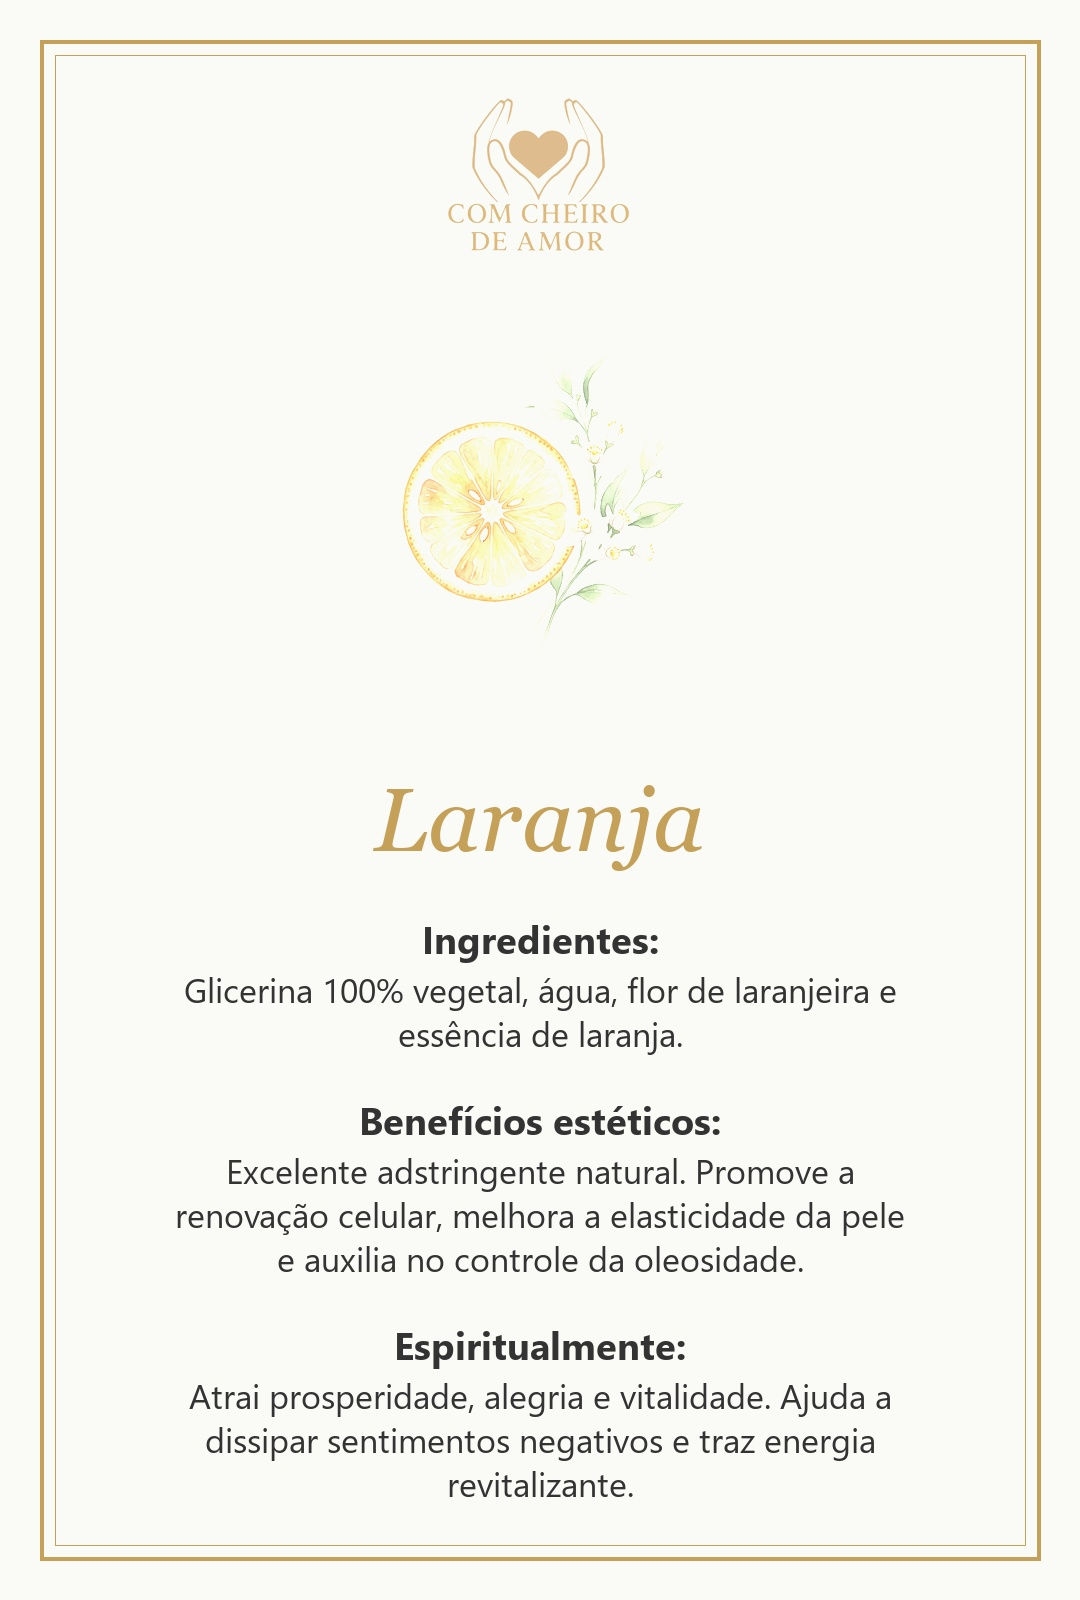
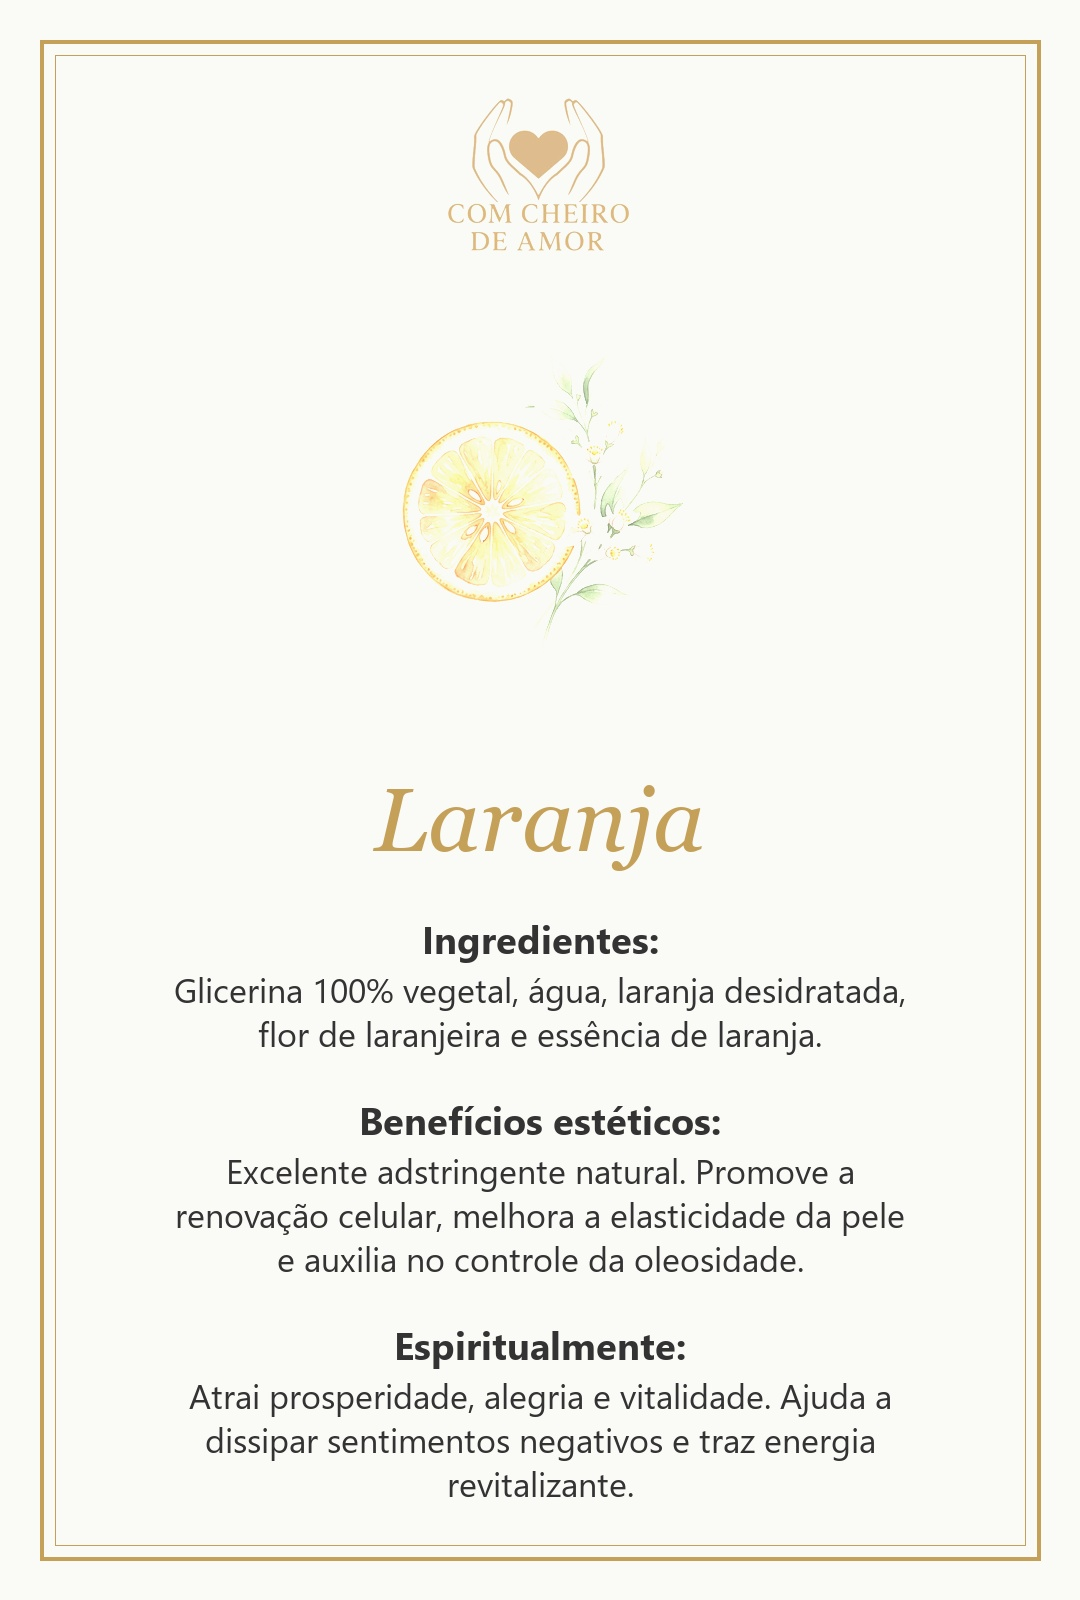
fix(soap): add laranja desidratada to ingredients for Laranja soap

Changed region(s): [[0.1528, 0.5938, 0.825, 0.6562]]

diff --git a/Proyecto 15 - Etiquetas de Jabones/generate_final.py b/Proyecto 15 - Etiquetas de Jabones/generate_final.py
@@ -18,7 +18,7 @@ data = [
     {"title": "Camomila", "drawing": "drawing_camomila*.png", "ingredientes": "Água, glicerina 100% vegetal, camomila e essência 100% vegetal de camomila e flor de laranjeira.", "esteticos": "Acalma a pele irritada, ajuda em problemas de eczema ou acne. Renova o brilho da pele.", "espiritual": "Ajuda a ficar mais tranquilo e equilibrado. Ajuda nas tomadas de decisões e a restaurar forças."},
     {"title": "Lavanda", "drawing": "drawing_lavanda*.png", "ingredientes": "Glicerina 100% vegetal, água, essência natural e lavanda.", "esteticos": "Anti-inflamatório, reduz acne, rosácea e eczemas. Ajuda no tratamento de peles oleosas.", "espiritual": "Calmante, ajuda na ansiedade e stress. Ajuda-nos a conectar com a nossa intuição e sabedoria."},
     {"title": "Aloe Vera", "drawing": "drawing_aloe_vera*.png", "ingredientes": "Glicerina 100% vegetal, àgua, extrato de aloe vera e essência de aloe vera.", "esteticos": "Ajuda na hidratação da pele e rugas. Suaviza a pele.", "espiritual": "Simboliza proteção, esperança, longevidade e sorte."},
-    {"title": "Laranja", "drawing": "drawing_naranja*.png", "ingredientes": "Glicerina 100% vegetal, água, flor de laranjeira e essência de laranja.", "esteticos": "Excelente adstringente natural. Promove a renovação celular, melhora a elasticidade da pele e auxilia no controle da oleosidade.", "espiritual": "Atrai prosperidade, alegria e vitalidade. Ajuda a dissipar sentimentos negativos e traz energia revitalizante."},
+    {"title": "Laranja", "drawing": "drawing_naranja*.png", "ingredientes": "Glicerina 100% vegetal, água, laranja desidratada, flor de laranjeira e essência de laranja.", "esteticos": "Excelente adstringente natural. Promove a renovação celular, melhora a elasticidade da pele e auxilia no controle da oleosidade.", "espiritual": "Atrai prosperidade, alegria e vitalidade. Ajuda a dissipar sentimentos negativos e traz energia revitalizante."},
     {"title": "Rosa Mosqueta", "drawing": "drawing_rosa_mosqueta*.png", "ingredientes": "Glicerina 100% vegetal, água, óleo de rosa mosqueta, rosa mosqueta em pó e essência de rosa mosqueta.", "esteticos": "Poderoso regenerador celular e cicatrizante. Ajuda a atenuar manchas, estrias e rugas, promovendo hidratação profunda.", "espiritual": "Promove o amor-próprio, a cura emocional e a harmonia interior. Ajuda a superar mágoas e renova a energia vital."}
 ]
 